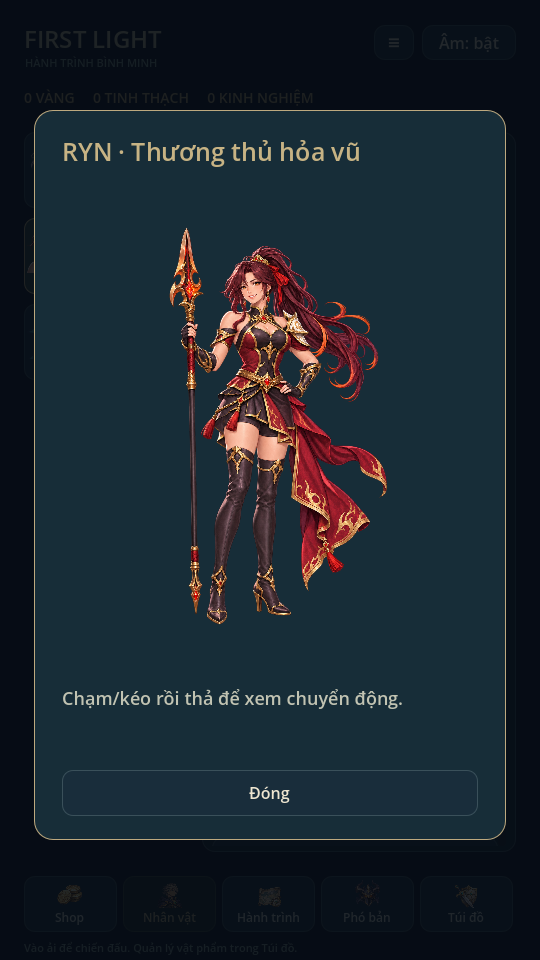
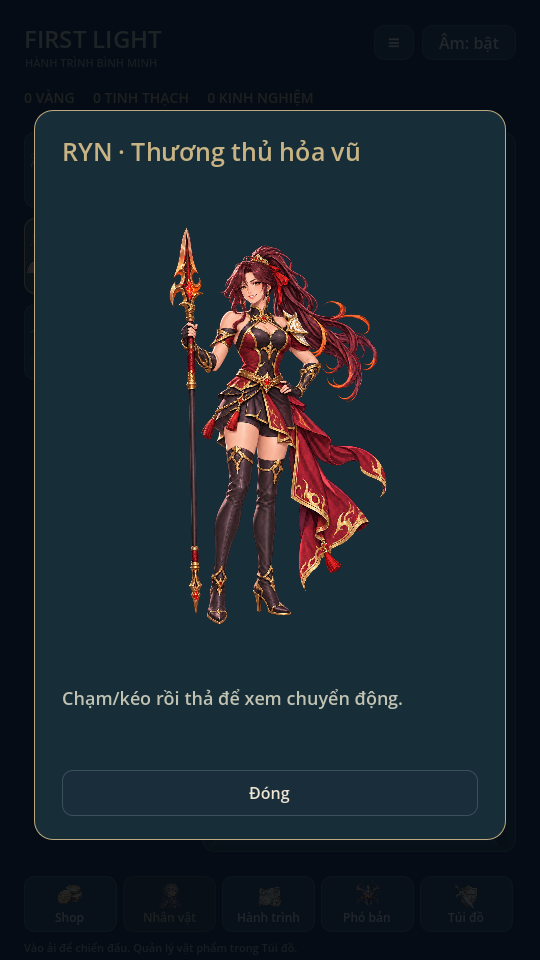
feat: add independent anchored hair and cloth motion for Ryn

diff --git a/tools/build_painted_manifest.py b/tools/build_painted_manifest.py
@@ -45,7 +45,7 @@ ryn_regions[5]=[314,418,327,418]
 ryn_regions[8]=[0,836,327,418]
 ryn_anchors=[[166,405],[166,405],[218,403],[218,403],[180,397],[168,397],[180,397],[171,397],[170,397],[170,397],[171,397],[176,397]]
 def ryn_frame(i,d):
- return dict(file=f'painted/ryn_{i:02}',atlas='painted/ryn_atlas.png',region=ryn_regions[i],size=ryn_regions[i][2:],anchor=ryn_anchors[i],hand=[0,0],angle=0,render_scale=.5,duration=d,embedded_weapon=True)
+ return dict(file=f'painted/ryn_{i:02}',atlas='painted/ryn_atlas.png',region=ryn_regions[i],size=ryn_regions[i][2:],anchor=ryn_anchors[i],source_size=[512,512],source_anchor=[256,460],trim_offset=[256-ryn_anchors[i][0],460-ryn_anchors[i][1]],hand=[0,0],angle=0,render_scale=.5,duration=d,embedded_weapon=True)
 painted['heroes']['ryn']={
  'idle':dict(loop=True,frames=[ryn_frame(0,.65),ryn_frame(1,.65)]),
  'run':dict(loop=True,frames=[ryn_frame(2,.11),ryn_frame(3,.11)]),
@@ -54,5 +54,5 @@ painted['heroes']['ryn']={
  'guard':dict(loop=False,frames=[ryn_frame(9,.7)]),
  'hurt':dict(loop=False,frames=[ryn_frame(10,.25)]),
  'death':dict(loop=False,frames=[ryn_frame(11,1)])}
-painted['portraits']={'ryn':dict(file='painted/ryn_portrait.png',face=[330,130,240,250],adult_age=27,layers={'body':'painted/ryn_body.png','back':'painted/ryn_back.png'})}
+painted['portraits']={'ryn':dict(file='painted/ryn_portrait.png',face=[330,130,240,250],adult_age=27,layers={'body':'painted/ryn_body.png','back':'painted/ryn_back.png','hair':'painted/ryn_hair.png','cloth':'painted/ryn_cloth.png'})}
 (root/'art/painted/manifest.json').write_text(json.dumps(painted,indent=2)+'\n')

diff --git a/docs/RYN_ART.md b/docs/RYN_ART.md
@@ -1,4 +1,4 @@
-# Ryn · Hỏa vũ trưởng thành · 0.13
+# Ryn · Hỏa vũ trưởng thành · 0.14
 
 Ryn được thiết kế lại thành nữ thương thủ trưởng thành 27 tuổi: tóc burgundy
 buộc cao, giáp đỏ–đen viền vàng, vai mở, váy chiến bất đối xứng có quần short
@@ -20,9 +20,11 @@ giữ tuning cũ. Pointer/focus/cancel và clamp delta chống giật khi frame 
 Không sửa RNG, HP, ví hay phát âm từ portrait. Không tạo node/texture mỗi frame.
 
 Nút **Xem Ryn phóng lớn** mở bản tương tác lớn trong modal. Màu trang phục đã
-chọn áp dụng cho cả hai layer. Nhân vật5★ gốc có tương tác độc lập Mở rộng.
-Đây là chuyển động bằng các lớp 2D, chưa phải rig/mesh deformation hoặc mô
-phỏng riêng từng bộ phận cơ thể. Các lớp và pose tạo sinh có khác biệt chi tiết
+chọn áp dụng cho thân, tóc và tà áo. Nhân vật5★ gốc có tương tác độc lập Mở rộng.
+Tóc và tà áo hiện là hai lớp riêng `ryn_hair.png` / `ryn_cloth.png`, dùng lưới
+8×16 ô và shader uốn phần ngọn, giữ điểm gắn ở đầu/hông. Tóc và vải có độ trễ
+khác nhau; thân và giáo giữ cùng transform. Mesh/material được tạo một lần.
+Không có skeleton hoặc mô phỏng riêng từng bộ phận cơ thể. Các lớp và pose tạo sinh có khác biệt chi tiết
 nhỏ, không coi là pipeline hình học tuyệt đối nhất quán.
 
 ![Chạm và kéo thực trong renderer Godot](previews/ryn-touch.gif)
@@ -34,7 +36,10 @@ Atlas1254×1254, bốn cột/ba hàng, 12 pose: idle2, run2, attack3, skill2, gu
 hurt1, defeat1. Clip có entry quay lại idle; attack hit_time0,22 và skill0,5 được
 motion sampler map sang marker thật của action. BattleModel giữ quyền gây damage.
 
-Region nguồn/anchor explicit trong builder, không chia lưới mù. Hai cell đâm
+Region nguồn/anchor explicit trong builder, không chia lưới mù. Mỗi pose có
+source canvas512×512, source_anchor và trim_offset; renderer giữ đúng kích
+thước vùng cắt thay vì kéo giãn ảnh. Metadata này bảo toàn căn chân hiện có,
+không tự sửa khác biệt tỷ lệ giữa các pose. Hai cell đâm
 thương nới region ngang để giữ mũi thương vượt biên danh nghĩa, không lấy actor
 bên cạnh. Đã xem contact sheet và thrust trong trận thật. `embedded_weapon`
 ngăn vẽ thêm thương thứ hai. Hai mẫu thương trong trang bị cùng dùng hình thương
@@ -59,3 +64,11 @@ Regression81, mechanics54 tổ hợp, campaign5 màn, painted_art, combat_presen
 và portrait_touch đạt. Chạy ui_flow, character_ui và animation_gallery trên display,
 xem ảnh thực. Test dùng profile riêng. Chưa thử touch/hiệu năng/nhiệt trên điện
 thoại thật. Không thay âm thanh. Mira và một số vùng/quái vẫn là SVG.
+
+## Áp dụng nghiên cứu game tham khảo · 0.14
+
+Áp dụng cách tách lớp phụ, giữ vị trí trên canvas chung và lưu offset vùng cắt.
+Repo tham khảo có clip chạy ba sprite trên canvas900×600 và portrait Spine3.4.02
+với các track xương/deform riêng cho tóc/váy; đây là hai loại asset khác nhau.
+Ryn dùng asset tạo riêng và shader Godot, không nhập hình, rig hay runtime gốc.
+Chưa tách tay, biểu cảm hoặc bổ sung các frame chuyển tiếp cho run/attack.

diff --git a/AGENTS.md b/AGENTS.md
@@ -7,12 +7,12 @@
 - BattleModel owns hit timing; View/FrameLibrary không được sửa HP hoặc ví.
 - Không tự thêm rig, SDK, quảng cáo, server, phí runtime hoặc phá save.
 - Chạy regression.gd, mechanics.gd, campaign.gd sau sửa logic. Với UI/art, chạy ui_flow.gd / animation_gallery.gd trên display và xem ảnh.
-- Báo đúng giới hạn: Eira/Ryn/Ash/rừng/phế tích/hồ có PNG; Mira, núi/tháp và một số quái còn SVG. Ryn là người trưởng thành 27 tuổi, portrait có lớp thân và tóc/tà áo; 12 pose chiến đấu bakespear. Ash chuyển động bằng transform một sprite. Chưa test điện thoại thật hoặc nghe audio.
+- Báo đúng giới hạn: Eira/Ryn/Ash/rừng/phế tích/hồ có PNG; Mira, núi/tháp và một số quái còn SVG. Ryn là người trưởng thành 27 tuổi, portrait có lớp thân, tóc và tà áo uốn độc lập; 12 pose chiến đấu bakespear. Ash chuyển động bằng transform một sprite. Chưa test điện thoại thật hoặc nghe audio.
 - Fetch/status trước khi đẩy; không force push, không ghi đè thay đổi của người khác.
 - Thuộc tính 0.8: chạy tests/attribute_training.gd khi sửa điểm hoặc stats; tests/training_ui.gd khi sửa màn thuộc tính/sổ tay. Trường training bổ sung trong save v3 là tùy chọn; save cũ giữ nguyên và có điểm chưa phân bổ theo cấp. Khóa build khi còn pending run.
 - Từ 0.9 save v4 đọc v2/v3, giữ nguyên pending snapshot; cây Tinh linh lưu riêng theo assist. Chạy tests/recruitment.gd, tests/skill_effects.gd, tests/progression_ui.gd và tests/skill_gallery.gd khi sửa tính năng mới. Triệu hồi dùng RNG riêng seed/count đã lưu, chi phí + pity + reward cùng transaction; không thêm RNG vào renderer.
 - Từ 0.12 save v5 đọc v2/v3/v4. Hero 5★ là độ hiếm catalogue, tương tác thiết kế sẵn theo mẫu; không dùng awakening/sao mở rộng để mở khóa tương tác. Nhóm đối thủ 1–4★ ở catalogue opponents. Trang bị 1–7, tinh linh SR/SSR/UR; ba hệ độc lập. Shop quảng cáo/gói thanh toán chưa có dịch vụ, không tự thêm SDK hoặc phát thưởng giả. Đọc docs/SHOP_RARITY_CHARACTER.md và chạy rarity_system, wardrobe, portrait_touch, shop_ui, character_ui khi sửa các phần này.
-- Ryn 0.13: đọc docs/RYN_ART.md; chạy tests/ryn_art.gd và tests/ryn_gallery.gd khi sửa ảnh/nhún. Pose embedded_weapon không vẽ thêm spear rời. Builder nền phải giữ metadata Ryn khi combat builder chạy lại. Không chỉnh pixel source PNG bằng code hoặc tự thêm rig.
+- Ryn 0.14: đọc docs/RYN_ART.md; chạy tests/ryn_art.gd và tests/ryn_gallery.gd khi sửa ảnh/nhún. Pose embedded_weapon không vẽ thêm spear rời. Builder nền phải giữ metadata Ryn khi combat builder chạy lại. Không chỉnh pixel source PNG bằng code hoặc tự thêm rig.
 
 - Âm thanh: đọc docs/AUDIO.md. Model phát cue theo marker; View/Pose Lab không phát âm.
 - Không dùng RNG chiến đấu để chọn âm. Mute phải dừng voice và tiêu thụ cursor; không phát lại backlog.

diff --git a/README.md b/README.md
@@ -1,9 +1,9 @@
-# Aternal Senia — First Light · 0.13
+# Aternal Senia — First Light · 0.14
 
-## Ryn · Hỏa vũ trưởng thành · 0.13
+## Ryn · Hỏa vũ trưởng thành · 0.14
 
 Ryn có tạo hình nữ trưởng thành 27 tuổi, giáp đỏ–đen và thương lửa mới. Chân
-dung tách thân/vũ khí và tóc/tà áo phía sau, có độ trễ/đung đưa khi kéo và nhún
+dung tách thân/vũ khí, tóc và tà áo. Tóc/vải uốn phần ngọn độc lập, có độ trễ khi kéo và nhún
 rõ hơn khi chạm. Có nút **Xem Ryn phóng lớn** trong màn Nhân vật.
 
 Trong trận đã thay SVG bằng 12 pose PNG cho bảy trạng thái. Giữ stats, skill,
@@ -15,7 +15,7 @@ save và mốc gây sát thương. [Xem ảnh động và chi tiết](docs/RYN_A
   **Trang phục** (xem trước/áp dụng phối màu, không đổi chỉ số).
 - **5★ là độ hiếm gốc**, không phải điều kiện nâng sao để mở tương tác. Ba hero
   chơi hiện tại là mẫu 5★; đối thủ 1–4★ được phân loại riêng. Chân dung 5★ có
-  bản thử chạm/kéo/nhún toàn sprite, chưa có tóc/vải tách lớp như clip tham khảo.
+  chạm/kéo/nhún; Ryn có tóc/vải tách lớp (0.14), Eira/Mira còn nhún toàn sprite.
 - Trang bị đủ **7 bậc**; Tinh linh dùng **SR/SSR/UR** riêng (Lumi SR, Ash SSR;
   chưa thêm mẫu UR). Kho có bộ lọc tương ứng.
 - Shop có sáu mục cuộn ngang: **Vàng, Kim cương, Triệu hồi, Sự kiện, Gói ưu đãi,
